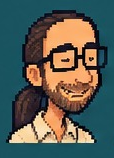
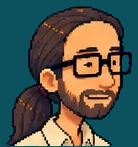
Aventura: sprites de Alex y Sergio corregidos
Direcciones izquierda/derecha bien orientadas, ciclos de andar/correr con
fotogramas distintos y alineados, interactuar/coger por dirección, pose de
llamada y planos cortos nuevos.

Claude-Session: https://claude.ai/code/session_01MSCBiEXEBaTVufoKyUq16p

diff --git a/aventura/index.html b/aventura/index.html
@@ -152,8 +152,8 @@ const rnd=(a,b)=>a+Math.random()*(b-a);
 
 /* ---------- Assets ---------- */
 const META={
- alex:{"cw":105,"ch":207,"anims":{"idle_down":{"row":0,"n":3},"idle_left":{"row":1,"n":3},"idle_right":{"row":2,"n":3},"idle_up":{"row":3,"n":4},"walk_down":{"row":4,"n":3},"walk_left":{"row":5,"n":3},"walk_right":{"row":6,"n":3},"walk_up":{"row":7,"n":4},"run_right":{"row":8,"n":3},"run_left":{"row":9,"n":3},"interact":{"row":10,"n":3},"pickup":{"row":11,"n":3},"phone":{"row":12,"n":3}}},
- sergio:{"cw":110,"ch":200,"anims":{"idle_down":{"row":0,"n":3},"idle_left":{"row":1,"n":3},"idle_right":{"row":2,"n":3},"idle_up":{"row":3,"n":4},"walk_down":{"row":4,"n":3},"walk_left":{"row":5,"n":3},"walk_right":{"row":6,"n":3},"walk_up":{"row":7,"n":4},"run_right":{"row":8,"n":3},"run_left":{"row":9,"n":3},"interact":{"row":10,"n":3},"pickup":{"row":11,"n":3},"phone":{"row":12,"n":3}}}
+ alex:{"cw":160,"ch":224,"base":8,"k":1.076,"anims":{"idle_down":{"row":0,"n":5,"fps":4},"idle_left":{"row":1,"n":8,"fps":4},"idle_right":{"row":2,"n":8,"fps":4},"idle_up":{"row":3,"n":4,"fps":4},"walk_down":{"row":4,"n":5,"fps":10},"walk_left":{"row":5,"n":8,"fps":10},"walk_right":{"row":6,"n":8,"fps":10},"walk_up":{"row":7,"n":4,"fps":10},"run_down":{"row":8,"n":5,"fps":12},"run_left":{"row":9,"n":8,"fps":12},"run_right":{"row":10,"n":8,"fps":12},"run_up":{"row":11,"n":4,"fps":12},"interact_left":{"row":12,"n":3,"fps":6},"interact_right":{"row":13,"n":3,"fps":6},"pickup_left":{"row":14,"n":2,"fps":6},"pickup_right":{"row":15,"n":2,"fps":6},"phone":{"row":16,"n":3,"fps":3,"loop":1},"call":{"row":17,"n":1,"fps":1}}},
+ sergio:{"cw":176,"ch":224,"base":8,"k":1.006,"anims":{"idle_down":{"row":0,"n":3,"fps":4},"idle_left":{"row":1,"n":6,"fps":4},"idle_right":{"row":2,"n":6,"fps":4},"idle_up":{"row":3,"n":4,"fps":4},"walk_down":{"row":4,"n":3,"fps":10},"walk_left":{"row":5,"n":6,"fps":10},"walk_right":{"row":6,"n":6,"fps":10},"walk_up":{"row":7,"n":4,"fps":10},"run_down":{"row":8,"n":3,"fps":12},"run_left":{"row":9,"n":6,"fps":12},"run_right":{"row":10,"n":6,"fps":12},"run_up":{"row":11,"n":4,"fps":12},"interact_left":{"row":12,"n":3,"fps":6},"interact_right":{"row":13,"n":3,"fps":6},"pickup_left":{"row":14,"n":2,"fps":6},"pickup_right":{"row":15,"n":2,"fps":6},"phone":{"row":16,"n":3,"fps":3,"loop":1},"call":{"row":17,"n":1,"fps":1}}}
 };
 const IMG={};
 function loadImg(k,src){return new Promise(r=>{const i=new Image();i.onload=()=>{IMG[k]=i;r()};i.onerror=()=>r();i.src=src})}
@@ -284,11 +284,14 @@ class Actor{
   const s=Math.min(d,this.speed*dt*scaleAt(this.y)/1.9);this.x+=dx/d*s;this.y+=dy/d*s;
   this.dir=Math.abs(dx)>Math.abs(dy)*.9?(dx>0?'right':'left'):(dy>0?'down':'up')}
  draw(){if(!this.visible||!IMG[this.key])return;const m=META[this.key];let name,fi;
-  if(this.anim){name=this.anim;const a=m.anims[name];fi=Math.min(a.n-1,Math.floor(this.ft*6))}
-  else if(this.tx!=null){name='walk_'+this.dir;const a=m.anims[name];fi=Math.floor(this.ft*8)%a.n}
+  if(this.anim){name=this.anim;const side=this.dir==='left'||this.dir==='right';
+   if(m.anims[name+'_'+this.dir])name+='_'+this.dir;else if(!m.anims[name])name=(side?'interact_':'idle_')+this.dir;
+   const a=m.anims[name],t=Math.floor(this.ft*(a.fps||6));
+   fi=a.loop!=null?(t<a.n?t:a.loop+(t-a.loop)%(a.n-a.loop)):name.startsWith('idle')?t%a.n:Math.min(a.n-1,t)}
+  else if(this.tx!=null){name='walk_'+this.dir;const a=m.anims[name];fi=Math.floor(this.ft*a.fps)%a.n}
   else{name='idle_'+this.dir;const a=m.anims[name];fi=Math.floor(this.ft*1.6)%a.n}
-  const a=m.anims[name],s=scaleAt(this.y),w=m.cw*s,h=m.ch*s;
-  ctx.drawImage(IMG[this.key],fi*m.cw,a.row*m.ch,m.cw,m.ch,Math.round(this.x-w/2),Math.round(this.y-h),Math.round(w),Math.round(h))}
+  const a=m.anims[name],s=scaleAt(this.y)*m.k,w=m.cw*s,h=m.ch*s;
+  ctx.drawImage(IMG[this.key],fi*m.cw,a.row*m.ch,m.cw,m.ch,Math.round(this.x-w/2),Math.round(this.y-(m.ch-m.base)*s),Math.round(w),Math.round(h))}
 }
 const alex=new Actor('alex',1170,628,'up'), sergio=new Actor('sergio',-120,628,'right');sergio.visible=false;
 async function play(actor,anim,ms=700){actor.anim=anim;actor.ft=0;await sleep(ms);actor.anim=null}
@@ -544,7 +547,7 @@ async function dial(c){
  if(calling||S.phase!=='calling')return;
  if(c.status==='no'&&REDIAL[c.id]){calling=true;await REDIAL[c.id]();calling=false;return}
  if(c.id==='sergio'&&CONTACTS.some(x=>x.id!=='sergio'&&!x.status)){calling=true;await say('alex',SERGIO_LATER[(S.sergioTry=(S.sergioTry||0)+1)%3],'smile');calling=false;return}calling=true;S.lastAct=performance.now();
- $('#phList').hidden=true;$('#phSms').hidden=true;$('#phTitle').textContent='Llamando';const pc=$('#phCall');pc.hidden=false;pc.innerHTML=`<span>Llamando a</span><b>${c.name}</b><span>· · ·</span>`;
+ $('#phList').hidden=true;$('#phSms').hidden=true;$('#phTitle').textContent='Llamando';alex.anim='call';alex.ft=0;const pc=$('#phCall');pc.hidden=false;pc.innerHTML=`<span>Llamando a</span><b>${c.name}</b><span>· · ·</span>`;
  SFX.dial();await sleep(600);const rings=c.id==='sergio'?3:c.id==='skater'&&c.status?1:2;for(let i=0;i<rings;i++){SFX.ring();await sleep(1250)}
  if(!(c.id==='skater'&&c.status)){pc.innerHTML=`<span>En llamada</span><b>${c.name}</b><span>00:0${1+Math.floor(Math.random()*8)}</span>`}
  const r=await CALLS[c.id](c);if(r)c.status=r;await sleep(500);
